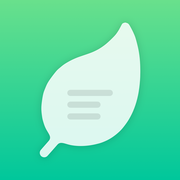
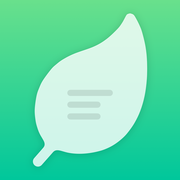
feat(pwa): 更新新版图标与安全裁切资源

Changed region(s): [[0.1667, 0.0556, 0.8333, 0.9444]]

diff --git a/CHANGELOG.md b/CHANGELOG.md
@@ -2,6 +2,9 @@
 
 ## [未发布]
 
+### 变更
+
+- 按最新设计更新自由形状和深浅色叶子图标，应用内与网页标签沿用透明矢量图标；安装图标重新适配安全裁切区域。
 
 ## [0.30.2] - 2026-10-09
 
